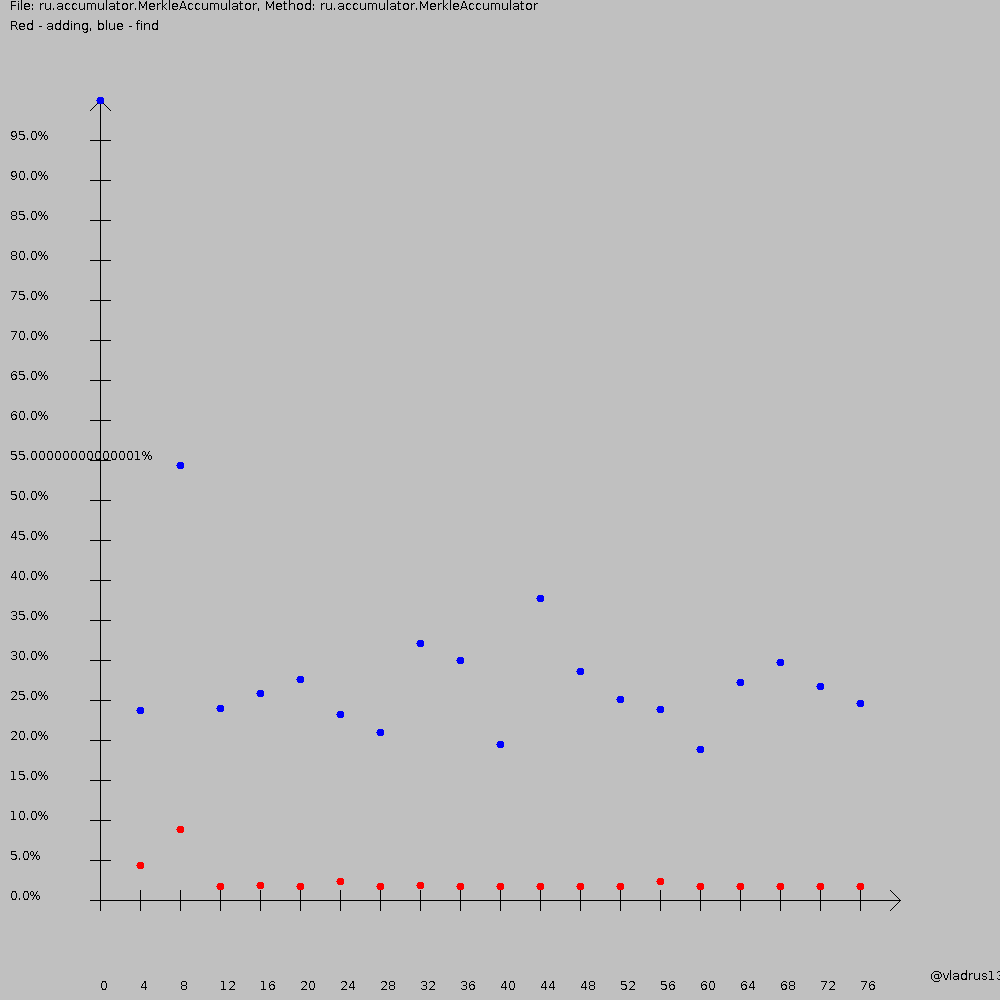
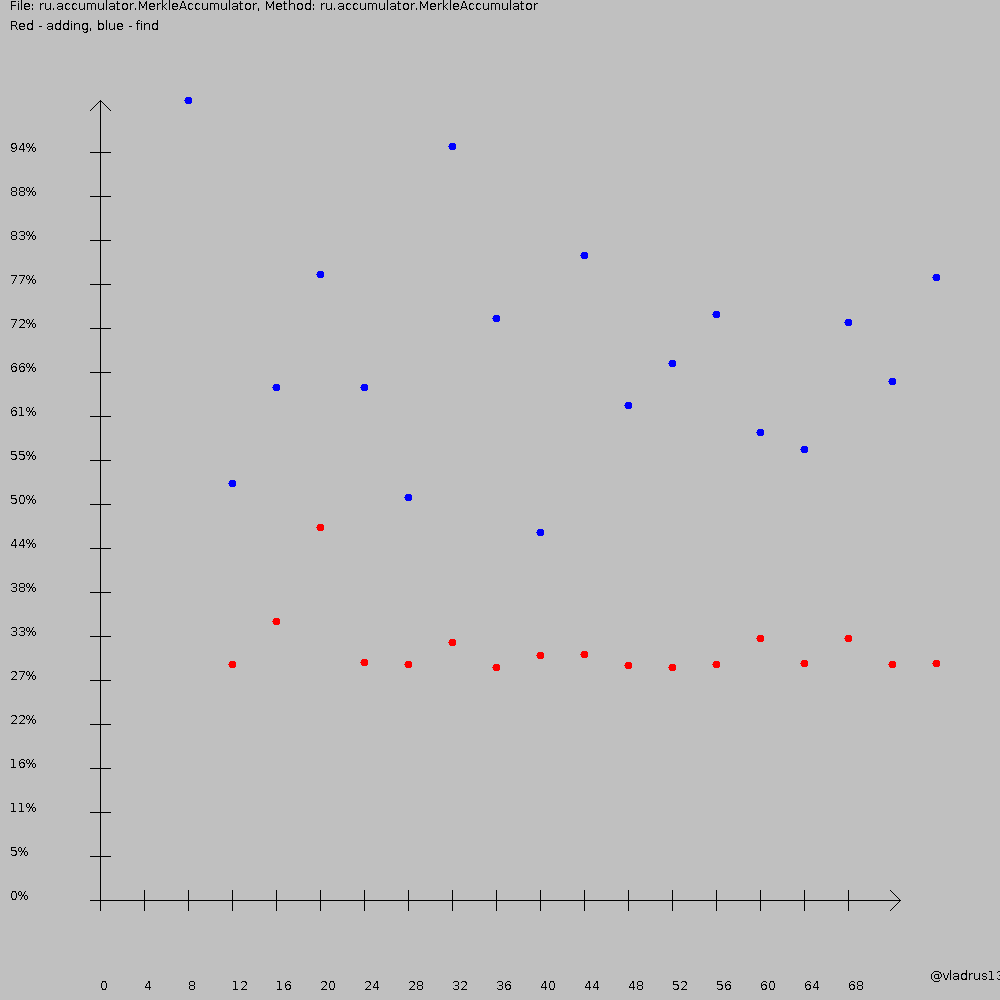
Fixing image

Changed region(s): [[0.0, 0.124, 0.031, 0.155]]

diff --git a/src/main/java/ru/draw/PerformanceLauncher.java b/src/main/java/ru/draw/PerformanceLauncher.java
@@ -29,7 +29,7 @@ public class PerformanceLauncher {
             String accumulatorName = accumulator.getClass().getName();
             ArrayList<Point> resultAdding = new ArrayList<>();
             ArrayList<Point> resultFind = new ArrayList<>();
-            int pointStep = 800 / (countElements / step);
+            int pointStep = 800 / (countElements / step - 2);
             int it = 0;
             for (int elements = 1; elements < countElements; elements += step) {
                 accumulator.clear();
@@ -47,6 +47,10 @@ public class PerformanceLauncher {
                 resultFind.add(new Point(it  * pointStep, (int) time));
                 it++;
             }
+            resultAdding.remove(0);
+            resultAdding.remove(0);
+            resultFind.remove(0);
+            resultFind.remove(0);
             int max = resultAdding.stream().mapToInt(element -> element.y).max().orElse(0);
             for (Point point : resultAdding) {
                 point.y = (int) (((long) point.y) * 800 / max);

diff --git a/src/main/java/ru/draw/ImageCreator.java b/src/main/java/ru/draw/ImageCreator.java
@@ -69,7 +69,7 @@ public class ImageCreator {
         IntStream.range(0, size).forEach(element -> {
                     lineOnGraphic(graphics, new Point(-10, element * perOne), new Point(10, element * perOne));
                     lineOnGraphic(graphics, new Point(element * perOne, -10), new Point(element * perOne, 10));
-                    graphics.drawString((double) element / size * 100 + "%", 10, 1000 - (element * perOne + 100));
+                    graphics.drawString(element * 100 / size + "%", 10, 1000 - (element * perOne + 100));
                     graphics.drawString(String.valueOf(element * 4), 100 + element * perOne, 990);
                 }
         );
